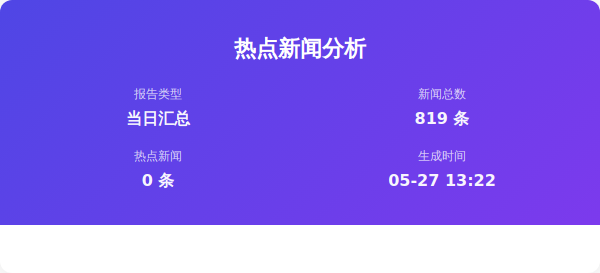
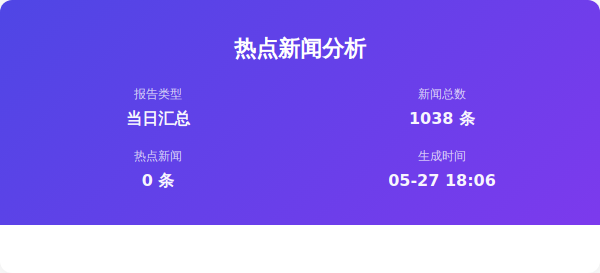
Auto update by GitHub Actions at Wed May 27 18:06:33 CST 2026

Changed region(s): [[0.66, 0.4103, 0.81, 0.4689], [0.75, 0.6447, 0.84, 0.674]]

diff --git a/output/2026年05月27日/html/当日汇总.html b/output/2026年05月27日/html/当日汇总.html
@@ -357,7 +357,7 @@
                     </div>
                     <div class="info-item">
                         <span class="info-label">新闻总数</span>
-                        <span class="info-value">819 条</span>
+                        <span class="info-value">1038 条</span>
                     </div>
                     <div class="info-item">
                         <span class="info-label">热点新闻</span>
@@ -365,7 +365,7 @@
                     </div>
                     <div class="info-item">
                         <span class="info-label">生成时间</span>
-                        <span class="info-value">05-27 13:22</span>
+                        <span class="info-value">05-27 18:06</span>
                     </div>
                 </div>
             </div>